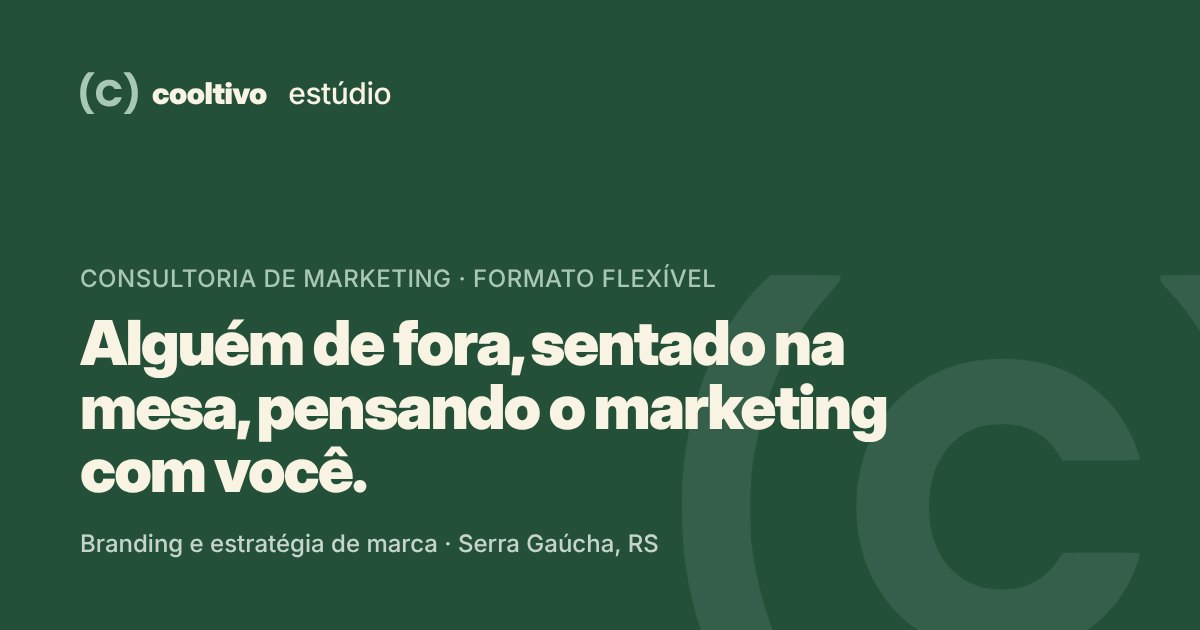
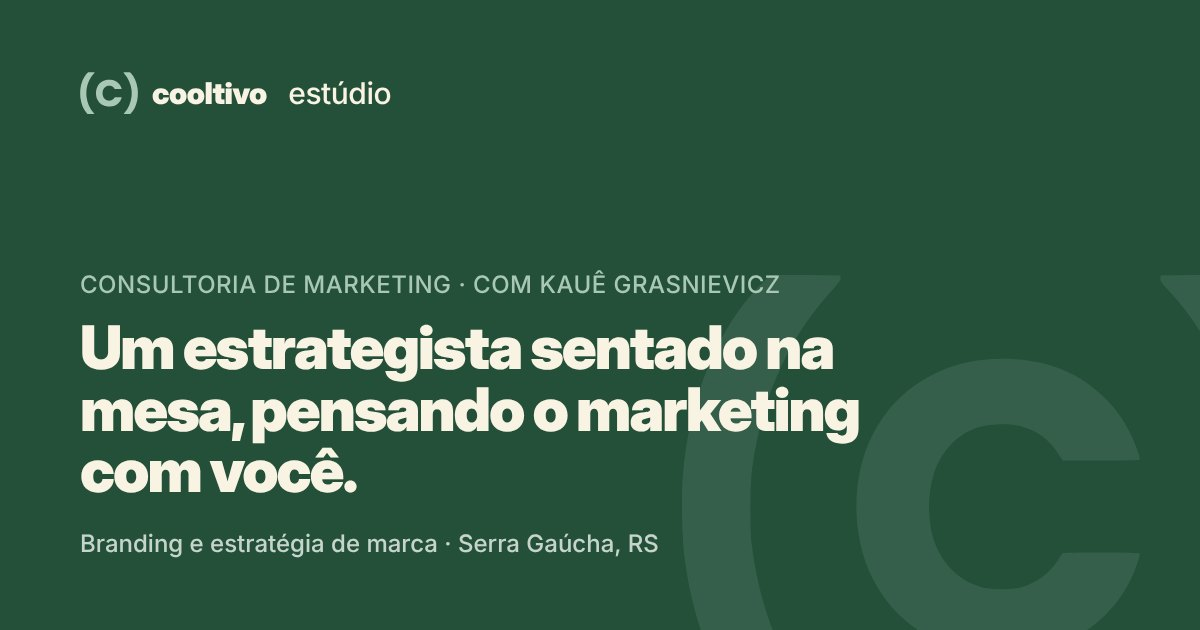
Consultoria de marketing: destaque para a liderança de Kauê Grasnievicz
Claude-Session: https://claude.ai/code/session_01Juhx3dbfntTNMR24W1dvdt

Changed region(s): [[0.0617, 0.5127, 0.74, 0.7841], [0.0617, 0.4222, 0.6475, 0.4825]]

diff --git a/servicos/consultoria-de-marketing.html b/servicos/consultoria-de-marketing.html
@@ -3,8 +3,8 @@
 <head>
 <meta charset="utf-8">
 <meta name="viewport" content="width=device-width, initial-scale=1, viewport-fit=cover">
-<title>Consultoria de marketing em Caxias do Sul e Serra Gaúcha · Cooltivo</title>
-<meta name="description" content="Acompanhamento estratégico para planejar o marketing a partir dos objetivos da empresa. Para empresas de Caxias do Sul, Bento Gonçalves e do RS.">
+<title>Consultoria de marketing com Kauê Grasnievicz · Cooltivo · Serra Gaúcha</title>
+<meta name="description" content="Consultoria de marketing conduzida por Kauê Grasnievicz, estrategista com mais de 10 anos de marketing, para empresas de Caxias do Sul, Bento Gonçalves e do RS.">
 <link rel="icon" href="../img/favicon.svg">
 <link rel="stylesheet" href="../cases/cases.css">
 <link rel="canonical" href="https://cooltivo.com.br/servicos/consultoria-de-marketing">
@@ -15,16 +15,16 @@
 <meta property="og:site_name" content="Cooltivo Estúdio">
 <meta property="og:locale" content="pt_BR">
 <meta property="og:url" content="https://cooltivo.com.br/servicos/consultoria-de-marketing">
-<meta property="og:title" content="Consultoria de marketing em Caxias do Sul e Serra Gaúcha · Cooltivo">
-<meta property="og:description" content="Acompanhamento estratégico para planejar o marketing a partir dos objetivos da empresa. Para empresas de Caxias do Sul, Bento Gonçalves e do RS.">
+<meta property="og:title" content="Consultoria de marketing com Kauê Grasnievicz · Cooltivo · Serra Gaúcha">
+<meta property="og:description" content="Consultoria de marketing conduzida por Kauê Grasnievicz, estrategista com mais de 10 anos de marketing, para empresas de Caxias do Sul, Bento Gonçalves e do RS.">
 <meta property="og:image" content="https://cooltivo.com.br/img/og/consultoria-de-marketing.jpg">
 <meta property="og:image:width" content="1200"><meta property="og:image:height" content="630">
 <meta name="twitter:card" content="summary_large_image">
-<meta name="twitter:title" content="Consultoria de marketing em Caxias do Sul e Serra Gaúcha · Cooltivo">
-<meta name="twitter:description" content="Acompanhamento estratégico para planejar o marketing a partir dos objetivos da empresa. Para empresas de Caxias do Sul, Bento Gonçalves e do RS.">
+<meta name="twitter:title" content="Consultoria de marketing com Kauê Grasnievicz · Cooltivo · Serra Gaúcha">
+<meta name="twitter:description" content="Consultoria de marketing conduzida por Kauê Grasnievicz, estrategista com mais de 10 anos de marketing, para empresas de Caxias do Sul, Bento Gonçalves e do RS.">
 <meta name="twitter:image" content="https://cooltivo.com.br/img/og/consultoria-de-marketing.jpg">
-<script type="application/ld+json">{"@context":"https://schema.org","@type":"Service","name":"Consultoria de marketing","serviceType":"Consultoria de marketing","description":"Acompanhamento estratégico para planejar o marketing a partir dos objetivos da empresa. Para empresas de Caxias do Sul, Bento Gonçalves e do RS.","url":"https://cooltivo.com.br/servicos/consultoria-de-marketing","provider":{"@id":"https://cooltivo.com.br/#org"},"areaServed":[{"@type":"City","name":"Caxias do Sul"},{"@type":"City","name":"Bento Gonçalves"},{"@type":"Place","name":"Serra Gaúcha"},{"@type":"State","name":"Rio Grande do Sul"}],"hasOfferCatalog":{"@type":"OfferCatalog","name":"O que você recebe","itemListElement":[{"@type":"Offer","itemOffered":{"@type":"Service","name":"Planejamento estratégico de marketing","description":"O plano de marketing da empresa, com prioridades, metas e investimento, construído a partir dos objetivos do negócio."}},{"@type":"Offer","itemOffered":{"@type":"Service","name":"Encontros semanais de acompanhamento","description":"Uma conversa por semana com a liderança e o time para decidir, ajustar e destravar."}},{"@type":"Offer","itemOffered":{"@type":"Service","name":"Imersões com liderança e time","description":"Encontros de trabalho para alinhar a empresa inteira em torno da marca e do plano."}}]}}</script>
-<script type="application/ld+json">{"@context":"https://schema.org","@type":"FAQPage","mainEntity":[{"@type":"Question","name":"A consultoria é pontual ou recorrente?","acceptedAnswer":{"@type":"Answer","text":"Os dois. A gente monta o formato com você: uma imersão pontual ou um acompanhamento contínuo."}},{"@type":"Question","name":"Para que tamanho de empresa faz sentido?","acceptedAnswer":{"@type":"Answer","text":"Para empresas médias e grandes que querem tratar o marketing como parte da estratégia do negócio."}},{"@type":"Question","name":"Vocês atendem empresas fora da Serra Gaúcha?","acceptedAnswer":{"@type":"Answer","text":"Sim. A gente atende empresas de todo o Rio Grande do Sul e de outros estados. Mas a Serra Gaúcha é a nossa casa. Foi aqui que a gente aprendeu o jogo das marcas que resistem ao tempo."}},{"@type":"Question","name":"Por onde começar?","acceptedAnswer":{"@type":"Answer","text":"Por uma reunião de diagnóstico de 45 minutos, para entender o momento da sua marca e os movimentos necessários."}}]}</script>
+<script type="application/ld+json">{"@context":"https://schema.org","@type":"Service","name":"Consultoria de marketing","serviceType":"Consultoria de marketing","description":"Consultoria de marketing conduzida por Kauê Grasnievicz, estrategista com mais de 10 anos de marketing, para empresas de Caxias do Sul, Bento Gonçalves e do RS.","url":"https://cooltivo.com.br/servicos/consultoria-de-marketing","provider":[{"@id":"https://cooltivo.com.br/#org"},{"@type":"Person","name":"Kauê Grasnievicz","jobTitle":"Cofundador e diretor de estratégia da Cooltivo","sameAs":["https://www.linkedin.com/in/kauegrasnievicz/"],"worksFor":{"@id":"https://cooltivo.com.br/#org"}}],"areaServed":[{"@type":"City","name":"Caxias do Sul"},{"@type":"City","name":"Bento Gonçalves"},{"@type":"Place","name":"Serra Gaúcha"},{"@type":"State","name":"Rio Grande do Sul"}],"hasOfferCatalog":{"@type":"OfferCatalog","name":"O que você recebe","itemListElement":[{"@type":"Offer","itemOffered":{"@type":"Service","name":"Planejamento estratégico de marketing","description":"O plano de marketing da empresa, com prioridades, metas e investimento, construído por Kauê a partir dos objetivos do negócio."}},{"@type":"Offer","itemOffered":{"@type":"Service","name":"Encontros semanais com Kauê","description":"Uma conversa por semana com a liderança e o time para decidir, ajustar e destravar."}},{"@type":"Offer","itemOffered":{"@type":"Service","name":"Imersões com liderança e time","description":"Encontros de trabalho conduzidos por Kauê para alinhar a empresa inteira em torno da marca e do plano."}}]}}</script>
+<script type="application/ld+json">{"@context":"https://schema.org","@type":"FAQPage","mainEntity":[{"@type":"Question","name":"Quem conduz a consultoria?","acceptedAnswer":{"@type":"Answer","text":"Kauê Grasnievicz, cofundador e diretor de estratégia da Cooltivo, conduz pessoalmente cada consultoria, com o apoio do time do estúdio quando o plano pede execução."}},{"@type":"Question","name":"A consultoria é pontual ou recorrente?","acceptedAnswer":{"@type":"Answer","text":"Os dois. A gente monta o formato com você: uma imersão pontual ou um acompanhamento contínuo."}},{"@type":"Question","name":"Para que tamanho de empresa faz sentido?","acceptedAnswer":{"@type":"Answer","text":"Para empresas médias e grandes que querem tratar o marketing como parte da estratégia do negócio."}},{"@type":"Question","name":"Vocês atendem empresas fora da Serra Gaúcha?","acceptedAnswer":{"@type":"Answer","text":"Sim. A gente atende empresas de todo o Rio Grande do Sul e de outros estados. Mas a Serra Gaúcha é a nossa casa. Foi aqui que a gente aprendeu o jogo das marcas que resistem ao tempo."}},{"@type":"Question","name":"Por onde começar?","acceptedAnswer":{"@type":"Answer","text":"Por uma reunião de diagnóstico de 45 minutos, para entender o momento da sua marca e os movimentos necessários."}}]}</script>
 <script type="application/ld+json">{"@context":"https://schema.org","@type":"BreadcrumbList","itemListElement":[{"@type":"ListItem","position":1,"name":"Cooltivo","item":"https://cooltivo.com.br/"},{"@type":"ListItem","position":2,"name":"Serviços","item":"https://cooltivo.com.br/#entregas"},{"@type":"ListItem","position":3,"name":"Consultoria de marketing","item":"https://cooltivo.com.br/servicos/consultoria-de-marketing"}]}</script>
 </head>
 <body>
@@ -58,14 +58,27 @@
     <div class="ch-txt">
       <a class="back" href="../index.html#entregas"><svg style="transform:scaleX(-1)"><use href="#chev"/></svg>Todos os serviços</a>
       <div class="ch-brand"><span class="seg">Consultoria de marketing · Pontual ou recorrente</span></div>
-      <h1>Alguém de fora, sentado na mesa, pensando o marketing com você.</h1>
-      <p class="sum">Conexão profunda com o negócio e acompanhamento estratégico para planejar o marketing a partir dos objetivos da empresa. Para empresas que têm um time de marketing pequeno, ou nenhum, e precisam de direção.</p>
+      <h1>Um estrategista sentado na mesa, pensando o marketing com você.</h1>
+      <p class="sum">A consultoria de marketing da Cooltivo é conduzida pessoalmente por Kauê Grasnievicz, cofundador e diretor de estratégia do estúdio. Ele mergulha no negócio, senta com os sócios e com o time e acompanha de perto o plano de marketing, construído a partir dos objetivos da empresa.</p>
       <div class="btns sv-btns"><a class="btn btn-soft" href="../conversa.html">Agendar diagnóstico de 45 min <svg><use href="#arr"/></svg></a><a class="btn btn-line-inv" href="https://wa.me/5554991000102?text=Ol%C3%A1%2C%20Cooltivo%21%20Quero%20conversar%20sobre%20Consultoria%20de%20marketing." target="_blank" rel="noopener">Falar no WhatsApp</a></div>
-      <div class="nums"><div><b>Formato flexível</b><span>Pontual ou recorrente</span></div><div><b>3C's</b><span>Context, Concept e Craft</span></div></div>
+      <div class="nums"><div><b>Formato flexível</b><span>Pontual ou recorrente</span></div><div><b>10+ anos</b><span>de marketing de quem conduz a consultoria</span></div></div>
     </div>
   </div>
 </header>
 
+<section class="lead-sec" aria-label="Quem conduz a consultoria">
+  <div class="wrap lead-grid">
+    <figure class="lead-img"><img src="../img/historia/h2.jpg" alt="Kauê Grasnievicz conduzindo um workshop de estratégia" loading="lazy"></figure>
+    <div class="lead-txt">
+      <small>Quem conduz</small>
+      <h2>Kauê Grasnievicz</h2>
+      <p class="lead-role">Cofundador e diretor de estratégia da Cooltivo</p>
+      <p>Kauê é estrategista, com mais de 10 anos de marketing e especialista em marca e comunicação. Antes de cofundar a Cooltivo, foi gerente de marketing de uma grande rede hoteleira e líder de digital de uma agência de comunicação que atendia grandes marcas gaúchas.</p><p>Já trabalhou com marcas como Sicredi, Santa Clara, Soprano, Zen Design e Casa Valduga. Na consultoria, ele ocupa a cadeira de quem pensa o marketing junto com a liderança: participa das decisões, orienta o time e responde pelo plano.</p>
+      <blockquote>“A comunicação é uma das ferramentas mais poderosas para transformar pessoas, sociedade e negócios.”</blockquote>
+      <a class="lead-link" href="https://www.linkedin.com/in/kauegrasnievicz/" target="_blank" rel="noopener">Conheça Kauê no LinkedIn <svg><use href="#arr"/></svg></a>
+    </div>
+  </div>
+</section>
 <main class="story wrap">
   <section class="st">
     <div class="st-lab"><i>01</i>Quando faz sentido</div>
@@ -73,11 +86,11 @@
   </section>
   <section class="st">
     <div class="st-lab"><i>02</i>Como a gente trabalha</div>
-    <div class="st-body"><p class="big">Método 3C's: entender antes de criar, decidir junto e executar com excelência.</p><div class="c3g"><div class="c3c"><span>01</span><h3>Context</h3><p>A gente faz uma imersão no negócio, nos números e no time.</p></div><div class="c3c"><span>02</span><h3>Concept</h3><p>A gente monta o plano estratégico de marketing, com metas ligadas aos objetivos da empresa.</p></div><div class="c3c"><span>03</span><h3>Craft</h3><p>A gente acompanha toda semana para o plano sair do papel.</p></div></div></div>
+    <div class="st-body"><p class="big">Método 3C's: entender antes de criar, decidir junto e executar com excelência.</p><div class="c3g"><div class="c3c"><span>01</span><h3>Context</h3><p>Kauê faz uma imersão no negócio, nos números e no time, conversando com sócios, liderança e clientes.</p></div><div class="c3c"><span>02</span><h3>Concept</h3><p>Kauê monta junto com a liderança o plano estratégico de marketing, com metas ligadas aos objetivos da empresa.</p></div><div class="c3c"><span>03</span><h3>Craft</h3><p>Kauê acompanha toda semana, com o time e com os parceiros, para o plano sair do papel.</p></div></div></div>
   </section>
   <section class="st">
     <div class="st-lab"><i>03</i>O que você recebe</div>
-    <div class="st-body"><ul class="rcv"><li><b>Planejamento estratégico de marketing</b><span>O plano de marketing da empresa, com prioridades, metas e investimento, construído a partir dos objetivos do negócio.</span></li><li><b>Encontros semanais de acompanhamento</b><span>Uma conversa por semana com a liderança e o time para decidir, ajustar e destravar.</span></li><li><b>Imersões com liderança e time</b><span>Encontros de trabalho para alinhar a empresa inteira em torno da marca e do plano.</span></li></ul></div>
+    <div class="st-body"><ul class="rcv"><li><b>Planejamento estratégico de marketing</b><span>O plano de marketing da empresa, com prioridades, metas e investimento, construído por Kauê a partir dos objetivos do negócio.</span></li><li><b>Encontros semanais com Kauê</b><span>Uma conversa por semana com a liderança e o time para decidir, ajustar e destravar.</span></li><li><b>Imersões com liderança e time</b><span>Encontros de trabalho conduzidos por Kauê para alinhar a empresa inteira em torno da marca e do plano.</span></li></ul></div>
   </section>
 </main>
 
@@ -111,7 +124,7 @@
 <section class="faq">
   <div class="wrap faq-grid">
     <h2><small>Perguntas frequentes</small>Consultoria de marketing</h2>
-    <div class="faq-list"><details><summary>A consultoria é pontual ou recorrente?</summary><p>Os dois. A gente monta o formato com você: uma imersão pontual ou um acompanhamento contínuo.</p></details><details><summary>Para que tamanho de empresa faz sentido?</summary><p>Para empresas médias e grandes que querem tratar o marketing como parte da estratégia do negócio.</p></details><details><summary>Vocês atendem empresas fora da Serra Gaúcha?</summary><p>Sim. A gente atende empresas de todo o Rio Grande do Sul e de outros estados. Mas a Serra Gaúcha é a nossa casa. Foi aqui que a gente aprendeu o jogo das marcas que resistem ao tempo.</p></details><details><summary>Por onde começar?</summary><p>Por uma reunião de diagnóstico de 45 minutos, para entender o momento da sua marca e os movimentos necessários.</p></details></div>
+    <div class="faq-list"><details><summary>Quem conduz a consultoria?</summary><p>Kauê Grasnievicz, cofundador e diretor de estratégia da Cooltivo, conduz pessoalmente cada consultoria, com o apoio do time do estúdio quando o plano pede execução.</p></details><details><summary>A consultoria é pontual ou recorrente?</summary><p>Os dois. A gente monta o formato com você: uma imersão pontual ou um acompanhamento contínuo.</p></details><details><summary>Para que tamanho de empresa faz sentido?</summary><p>Para empresas médias e grandes que querem tratar o marketing como parte da estratégia do negócio.</p></details><details><summary>Vocês atendem empresas fora da Serra Gaúcha?</summary><p>Sim. A gente atende empresas de todo o Rio Grande do Sul e de outros estados. Mas a Serra Gaúcha é a nossa casa. Foi aqui que a gente aprendeu o jogo das marcas que resistem ao tempo.</p></details><details><summary>Por onde começar?</summary><p>Por uma reunião de diagnóstico de 45 minutos, para entender o momento da sua marca e os movimentos necessários.</p></details></div>
   </div>
 </section>
 

diff --git a/index.html b/index.html
@@ -815,7 +815,7 @@ footer .links a:hover{color:var(--orange)}
       <div class="s"><div class="top"><span class="chips2"><span class="chip">Pontual</span></span><span class="dur">6 a 8 semanas</span></div><h3>Posicionamento</h3><p class="what">Construímos marcas com propósito, claras sobre quem são, o que defendem e como querem ser lembradas.</p><ul><li>Diagnóstico</li><li>Workshop de co-criação</li><li>Criação da plataforma de marca</li></ul><span class="s-acts"><a class="s-more" href="servicos/posicionamento-de-marca.html">Conhecer o serviço</a><a class="s-cta" href="#contato" data-int="Posicionamento de marca">Quero conversar sobre isso <svg><use href="#arr"/></svg></a></span></div>
       <div class="s"><div class="top"><span class="chips2"><span class="chip rec">Recorrente</span></span><span class="dur">Contratos de 6 a 12 meses</span></div><h3>Presença digital</h3><p class="what">Planejamos e conduzimos a comunicação da marca no digital, com consistência mês a mês.</p><ul><li>Planejamento de presença digital</li><li>Produção de conteúdo</li><li>Estratégia e gestão de canais</li></ul><span class="s-acts"><a class="s-more" href="servicos/presenca-digital.html">Conhecer o serviço</a><a class="s-cta" href="#contato" data-int="Presença digital">Quero conversar sobre isso <svg><use href="#arr"/></svg></a></span></div>
       <div class="s"><div class="top"><span class="chips2"><span class="chip">Pontual</span></span><span class="dur">4 semanas</span></div><h3>Estratégia de canais</h3><p class="what">Diagnóstico da presença digital atual e direcionamento claro de onde estar, com qual papel e com qual mensagem.</p><ul><li>Diagnóstico de canais e dados</li><li>Papel de cada canal</li><li>Direcionamento estratégico</li></ul><span class="s-acts"><a class="s-more" href="servicos/estrategia-de-canais.html">Conhecer o serviço</a><a class="s-cta" href="#contato" data-int="Estratégia de canais">Quero conversar sobre isso <svg><use href="#arr"/></svg></a></span></div>
-      <div class="s"><div class="top"><span class="chips2"><span class="chip">Pontual</span><span class="chip rec">Recorrente</span></span><span class="dur">Formato flexível</span></div><h3>Consultoria de marketing</h3><p class="what">Conexão profunda com o negócio e acompanhamento estratégico para planejar o marketing a partir dos objetivos da empresa.</p><ul><li>Planejamento estratégico de marketing</li><li>Encontros semanais de acompanhamento</li><li>Imersões com liderança e time</li></ul><span class="s-acts"><a class="s-more" href="servicos/consultoria-de-marketing.html">Conhecer o serviço</a><a class="s-cta" href="#contato" data-int="Consultoria de marketing">Quero conversar sobre isso <svg><use href="#arr"/></svg></a></span></div>
+      <div class="s"><div class="top"><span class="chips2"><span class="chip">Pontual</span><span class="chip rec">Recorrente</span></span><span class="dur">Formato flexível</span></div><h3>Consultoria de marketing</h3><p class="what">Consultoria conduzida por Kauê Grasnievicz: conexão profunda com o negócio e acompanhamento estratégico para planejar o marketing a partir dos objetivos da empresa.</p><ul><li>Planejamento estratégico de marketing</li><li>Encontros semanais de acompanhamento</li><li>Imersões com liderança e time</li></ul><span class="s-acts"><a class="s-more" href="servicos/consultoria-de-marketing.html">Conhecer o serviço</a><a class="s-cta" href="#contato" data-int="Consultoria de marketing">Quero conversar sobre isso <svg><use href="#arr"/></svg></a></span></div>
     </div>
   </div>
 </section>

diff --git a/cases/cases.css b/cases/cases.css
@@ -268,3 +268,15 @@ footer .links a:hover{color:var(--green-soft)}
 @media (max-width:900px){.c3g,.sv-links{grid-template-columns:1fr}.rcv li,.faq-grid{grid-template-columns:1fr;gap:12px}.faq-grid{gap:28px}.sv-cases{padding-top:64px}.faq{padding:64px 0}}
 .sv-cases .eyebrow{display:flex;align-items:center;gap:10px;font-weight:700;font-size:13px;letter-spacing:.14em;text-transform:uppercase;color:var(--green)}
 .sv-cases .eyebrow .sym{height:14px;width:19px}
+.lead-sec{background:var(--cream);border-bottom:1px solid var(--line)}
+.lead-grid{display:grid;grid-template-columns:minmax(0,.8fr) minmax(0,1.4fr);gap:64px;align-items:center;padding-block:90px}
+.lead-img{margin:0;border-radius:28px;overflow:hidden;aspect-ratio:4/5;background:var(--green-mist)}
+.lead-img img{width:100%;height:100%;object-fit:cover;object-position:50% 25%;display:block}
+.lead-txt small{display:block;font-size:12px;font-weight:700;letter-spacing:.14em;text-transform:uppercase;color:var(--green);margin-bottom:12px}
+.lead-txt h2{font-family:var(--font-display);font-weight:800;font-size:clamp(34px,4vw,56px);letter-spacing:-.045em;line-height:1;margin:0;color:var(--ink)}
+.lead-txt .lead-role{font-weight:700;color:var(--green);margin:12px 0 22px;font-size:17px}
+.lead-txt p{font-size:18px;line-height:1.6;color:var(--ink);margin:0 0 14px;max-width:60ch}
+.lead-txt blockquote{margin:26px 0;padding-left:20px;border-left:3px solid var(--green-soft);font-family:var(--font-display);font-weight:700;font-size:clamp(20px,1.8vw,24px);line-height:1.3;letter-spacing:-.02em;color:var(--ink)}
+.lead-link{display:inline-flex;align-items:center;gap:10px;font-weight:700;color:var(--green);text-decoration:none}
+.lead-link svg{width:12px;height:12px}
+@media (max-width:900px){.lead-grid{grid-template-columns:1fr;gap:32px;padding-block:56px}.lead-img{aspect-ratio:4/4}}

diff --git a/servicos/posicionamento-de-marca.html b/servicos/posicionamento-de-marca.html
@@ -61,7 +61,7 @@
       <h1>O lugar que a sua empresa ocupa na cabeça do cliente.</h1>
       <p class="sum">Toda empresa que dura tem um motivo para ser escolhida. Muitas vezes, quem trabalha nela sabe esse motivo, mas ele não aparece no site, no catálogo nem na fala do vendedor. Posicionamento de marca é encontrar esse motivo, dizer em uma frase e fazer a empresa inteira contar a mesma história.</p>
       <div class="btns sv-btns"><a class="btn btn-soft" href="../conversa.html">Agendar diagnóstico de 45 min <svg><use href="#arr"/></svg></a><a class="btn btn-line-inv" href="https://wa.me/5554991000102?text=Ol%C3%A1%2C%20Cooltivo%21%20Quero%20conversar%20sobre%20Posicionamento%20de%20marca." target="_blank" rel="noopener">Falar no WhatsApp</a></div>
-      <div class="nums"><div><b>6 a 8 semanas</b><span>Projeto pontual</span></div><div><b>3C's</b><span>Context, Concept e Craft</span></div></div>
+      <div class="nums"><div><b>6 a 8 semanas</b><span>Projeto pontual</span></div><div><b>3C&#x27;s</b><span>Context, Concept e Craft</span></div></div>
     </div>
   </div>
 </header>

diff --git a/servicos/presenca-digital.html b/servicos/presenca-digital.html
@@ -61,7 +61,7 @@
       <h1>A sua empresa no digital do tamanho que ela é.</h1>
       <p class="sum">Muita empresa forte some no digital. Posta quando sobra tempo, cada canal fala de um jeito e o Instagram não mostra a história nem o tamanho do negócio. A gente planeja e conduz a comunicação da sua marca no digital, mês a mês, com conteúdo que mostra quem a empresa é e ajuda a vender.</p>
       <div class="btns sv-btns"><a class="btn btn-soft" href="../conversa.html">Agendar diagnóstico de 45 min <svg><use href="#arr"/></svg></a><a class="btn btn-line-inv" href="https://wa.me/5554991000102?text=Ol%C3%A1%2C%20Cooltivo%21%20Quero%20conversar%20sobre%20Presen%C3%A7a%20digital." target="_blank" rel="noopener">Falar no WhatsApp</a></div>
-      <div class="nums"><div><b>6 a 12 meses</b><span>Contrato recorrente</span></div><div><b>3C's</b><span>Context, Concept e Craft</span></div></div>
+      <div class="nums"><div><b>6 a 12 meses</b><span>Contrato recorrente</span></div><div><b>3C&#x27;s</b><span>Context, Concept e Craft</span></div></div>
     </div>
   </div>
 </header>

diff --git a/servicos/estrategia-de-canais.html b/servicos/estrategia-de-canais.html
@@ -61,7 +61,7 @@
       <h1>Onde a sua marca precisa estar, e o que dizer em cada lugar.</h1>
       <p class="sum">Estar em todos os canais custa caro e cansa o time. A gente analisa a presença digital atual da empresa e os dados de cada canal. Em 4 semanas, você tem um direcionamento claro de onde estar, com qual papel e com qual mensagem.</p>
       <div class="btns sv-btns"><a class="btn btn-soft" href="../conversa.html">Agendar diagnóstico de 45 min <svg><use href="#arr"/></svg></a><a class="btn btn-line-inv" href="https://wa.me/5554991000102?text=Ol%C3%A1%2C%20Cooltivo%21%20Quero%20conversar%20sobre%20Estrat%C3%A9gia%20de%20canais." target="_blank" rel="noopener">Falar no WhatsApp</a></div>
-      <div class="nums"><div><b>4 semanas</b><span>Projeto pontual</span></div><div><b>3C's</b><span>Context, Concept e Craft</span></div></div>
+      <div class="nums"><div><b>4 semanas</b><span>Projeto pontual</span></div><div><b>3C&#x27;s</b><span>Context, Concept e Craft</span></div></div>
     </div>
   </div>
 </header>

diff --git a/_tools/build_servicos.py b/_tools/build_servicos.py
@@ -78,22 +78,30 @@ S = [
        ('O que a empresa precisa liberar?', 'Acesso aos canais e às ferramentas de dados que a empresa usa, para o diagnóstico partir de números reais.'),
        SERRA, START]),
  dict(slug='consultoria-de-marketing', name='Consultoria de marketing', tipo='Pontual ou recorrente', dur='Formato flexível',
-  seo_t='Consultoria de marketing em Caxias do Sul e Serra Gaúcha · Cooltivo',
-  seo_d='Acompanhamento estratégico para planejar o marketing a partir dos objetivos da empresa. Para empresas de Caxias do Sul, Bento Gonçalves e do RS.',
-  h1='Alguém de fora, sentado na mesa, pensando o marketing com você.',
-  intro='Conexão profunda com o negócio e acompanhamento estratégico para planejar o marketing a partir dos objetivos da empresa. Para empresas que têm um time de marketing pequeno, ou nenhum, e precisam de direção.',
+  seo_t='Consultoria de marketing com Kauê Grasnievicz · Cooltivo · Serra Gaúcha',
+  seo_d='Consultoria de marketing conduzida por Kauê Grasnievicz, estrategista com mais de 10 anos de marketing, para empresas de Caxias do Sul, Bento Gonçalves e do RS.',
+  h1='Um estrategista sentado na mesa, pensando o marketing com você.',
+  intro='A consultoria de marketing da Cooltivo é conduzida pessoalmente por Kauê Grasnievicz, cofundador e diretor de estratégia do estúdio. Ele mergulha no negócio, senta com os sócios e com o time e acompanha de perto o plano de marketing, construído a partir dos objetivos da empresa.',
+  num2=('10+ anos', 'de marketing de quem conduz a consultoria'),
+  lead=dict(name='Kauê Grasnievicz', role='Cofundador e diretor de estratégia da Cooltivo', img='../img/historia/h2.jpg',
+    alt='Kauê Grasnievicz conduzindo um workshop de estratégia',
+    bio=['Kauê é estrategista, com mais de 10 anos de marketing e especialista em marca e comunicação. Antes de cofundar a Cooltivo, foi gerente de marketing de uma grande rede hoteleira e líder de digital de uma agência de comunicação que atendia grandes marcas gaúchas.',
+         'Já trabalhou com marcas como Sicredi, Santa Clara, Soprano, Zen Design e Casa Valduga. Na consultoria, ele ocupa a cadeira de quem pensa o marketing junto com a liderança: participa das decisões, orienta o time e responde pelo plano.'],
+    quote='A comunicação é uma das ferramentas mais poderosas para transformar pessoas, sociedade e negócios.',
+    link='https://www.linkedin.com/in/kauegrasnievicz/'),
   quando=['A empresa não tem um líder de marketing.',
           'O time de marketing executa, mas falta direção.',
           'As decisões de marketing são tomadas no improviso.',
           'A empresa vive um momento de crescimento, sucessão ou mudança de mercado.'],
-  c3=['A gente faz uma imersão no negócio, nos números e no time.',
-      'A gente monta o plano estratégico de marketing, com metas ligadas aos objetivos da empresa.',
-      'A gente acompanha toda semana para o plano sair do papel.'],
-  recebe=[('Planejamento estratégico de marketing', 'O plano de marketing da empresa, com prioridades, metas e investimento, construído a partir dos objetivos do negócio.'),
-          ('Encontros semanais de acompanhamento', 'Uma conversa por semana com a liderança e o time para decidir, ajustar e destravar.'),
-          ('Imersões com liderança e time', 'Encontros de trabalho para alinhar a empresa inteira em torno da marca e do plano.')],
+  c3=['Kauê faz uma imersão no negócio, nos números e no time, conversando com sócios, liderança e clientes.',
+      'Kauê monta junto com a liderança o plano estratégico de marketing, com metas ligadas aos objetivos da empresa.',
+      'Kauê acompanha toda semana, com o time e com os parceiros, para o plano sair do papel.'],
+  recebe=[('Planejamento estratégico de marketing', 'O plano de marketing da empresa, com prioridades, metas e investimento, construído por Kauê a partir dos objetivos do negócio.'),
+          ('Encontros semanais com Kauê', 'Uma conversa por semana com a liderança e o time para decidir, ajustar e destravar.'),
+          ('Imersões com liderança e time', 'Encontros de trabalho conduzidos por Kauê para alinhar a empresa inteira em torno da marca e do plano.')],
   cases=['introduce', 'vino-verace'],
-  faq=[('A consultoria é pontual ou recorrente?', 'Os dois. A gente monta o formato com você: uma imersão pontual ou um acompanhamento contínuo.'),
+  faq=[('Quem conduz a consultoria?', 'Kauê Grasnievicz, cofundador e diretor de estratégia da Cooltivo, conduz pessoalmente cada consultoria, com o apoio do time do estúdio quando o plano pede execução.'),
+       ('A consultoria é pontual ou recorrente?', 'Os dois. A gente monta o formato com você: uma imersão pontual ou um acompanhamento contínuo.'),
        ('Para que tamanho de empresa faz sentido?', 'Para empresas médias e grandes que querem tratar o marketing como parte da estratégia do negócio.'),
        SERRA, START]),
 ]
@@ -126,6 +134,25 @@ def page(s):
     others = ''.join(f'<a href="{o["slug"]}.html"><small>{e(o["tipo"])} · {e(o["dur"])}</small><b>{e(o["name"])}</b></a>' for o in S if o is not s)
     path = '/servicos/' + s['slug']
     faq = ''.join(f'<details><summary>{e(q)}</summary><p>{e(a)}</p></details>' for q, a in s['faq'])
+    n2 = s.get('num2', ("3C's", 'Context, Concept e Craft'))
+    L = s.get('lead')
+    lead = ''
+    if L:
+        bio = ''.join(f'<p>{e(x)}</p>' for x in L['bio'])
+        lead = f'''
+<section class="lead-sec" aria-label="Quem conduz a consultoria">
+  <div class="wrap lead-grid">
+    <figure class="lead-img"><img src="{L['img']}" alt="{e(L['alt'])}" loading="lazy"></figure>
+    <div class="lead-txt">
+      <small>Quem conduz</small>
+      <h2>{e(L['name'])}</h2>
+      <p class="lead-role">{e(L['role'])}</p>
+      {bio}
+      <blockquote>“{e(L['quote'])}”</blockquote>
+      <a class="lead-link" href="{L['link']}" target="_blank" rel="noopener">Conheça Kauê no LinkedIn <svg><use href="#arr"/></svg></a>
+    </div>
+  </div>
+</section>'''
     names = ['Context', 'Concept', 'Craft']
     c3 = ''.join(f'<div class="c3c"><span>0{i + 1}</span><h3>{names[i]}</h3><p>{e(t)}</p></div>' for i, t in enumerate(s['c3']))
     rec = ''.join(f'<li><b>{e(a)}</b><span>{e(b)}</span></li>' for a, b in s['recebe'])
@@ -143,11 +170,11 @@ def page(s):
       <h1>{e(s['h1'])}</h1>
       <p class="sum">{e(s['intro'])}</p>
       <div class="btns sv-btns"><a class="btn btn-soft" href="../conversa.html">Agendar diagnóstico de 45 min <svg><use href="#arr"/></svg></a><a class="btn btn-line-inv" href="{wa}" target="_blank" rel="noopener">Falar no WhatsApp</a></div>
-      <div class="nums"><div><b>{e(s['dur'])}</b><span>{e(s['tipo'])}</span></div><div><b>3C's</b><span>Context, Concept e Craft</span></div></div>
+      <div class="nums"><div><b>{e(s['dur'])}</b><span>{e(s['tipo'])}</span></div><div><b>{e(n2[0])}</b><span>{e(n2[1])}</span></div></div>
     </div>
   </div>
 </header>
-
+{lead}
 <main class="story wrap">
   <section class="st">
     <div class="st-lab"><i>01</i>Quando faz sentido</div>
@@ -189,6 +216,8 @@ def page(s):
                               {'@type': 'Place', 'name': 'Serra Gaúcha'}, {'@type': 'State', 'name': 'Rio Grande do Sul'}],
                'hasOfferCatalog': {'@type': 'OfferCatalog', 'name': 'O que você recebe', 'itemListElement': [
                    {'@type': 'Offer', 'itemOffered': {'@type': 'Service', 'name': a, 'description': b}} for a, b in s['recebe']]}}
+    if L:
+        service['provider'] = [{'@id': seo.ORG_ID}, {'@type': 'Person', 'name': L['name'], 'jobTitle': L['role'], 'sameAs': [L['link']], 'worksFor': {'@id': seo.ORG_ID}}]
     faqld = {'@context': 'https://schema.org', '@type': 'FAQPage', 'mainEntity': [
         {'@type': 'Question', 'name': q, 'acceptedAnswer': {'@type': 'Answer', 'text': a}} for q, a in s['faq']]}
     sch = [service, faqld, seo.crumbs([('Cooltivo', '/'), ('Serviços', '/#entregas'), (s['name'], path)])]
